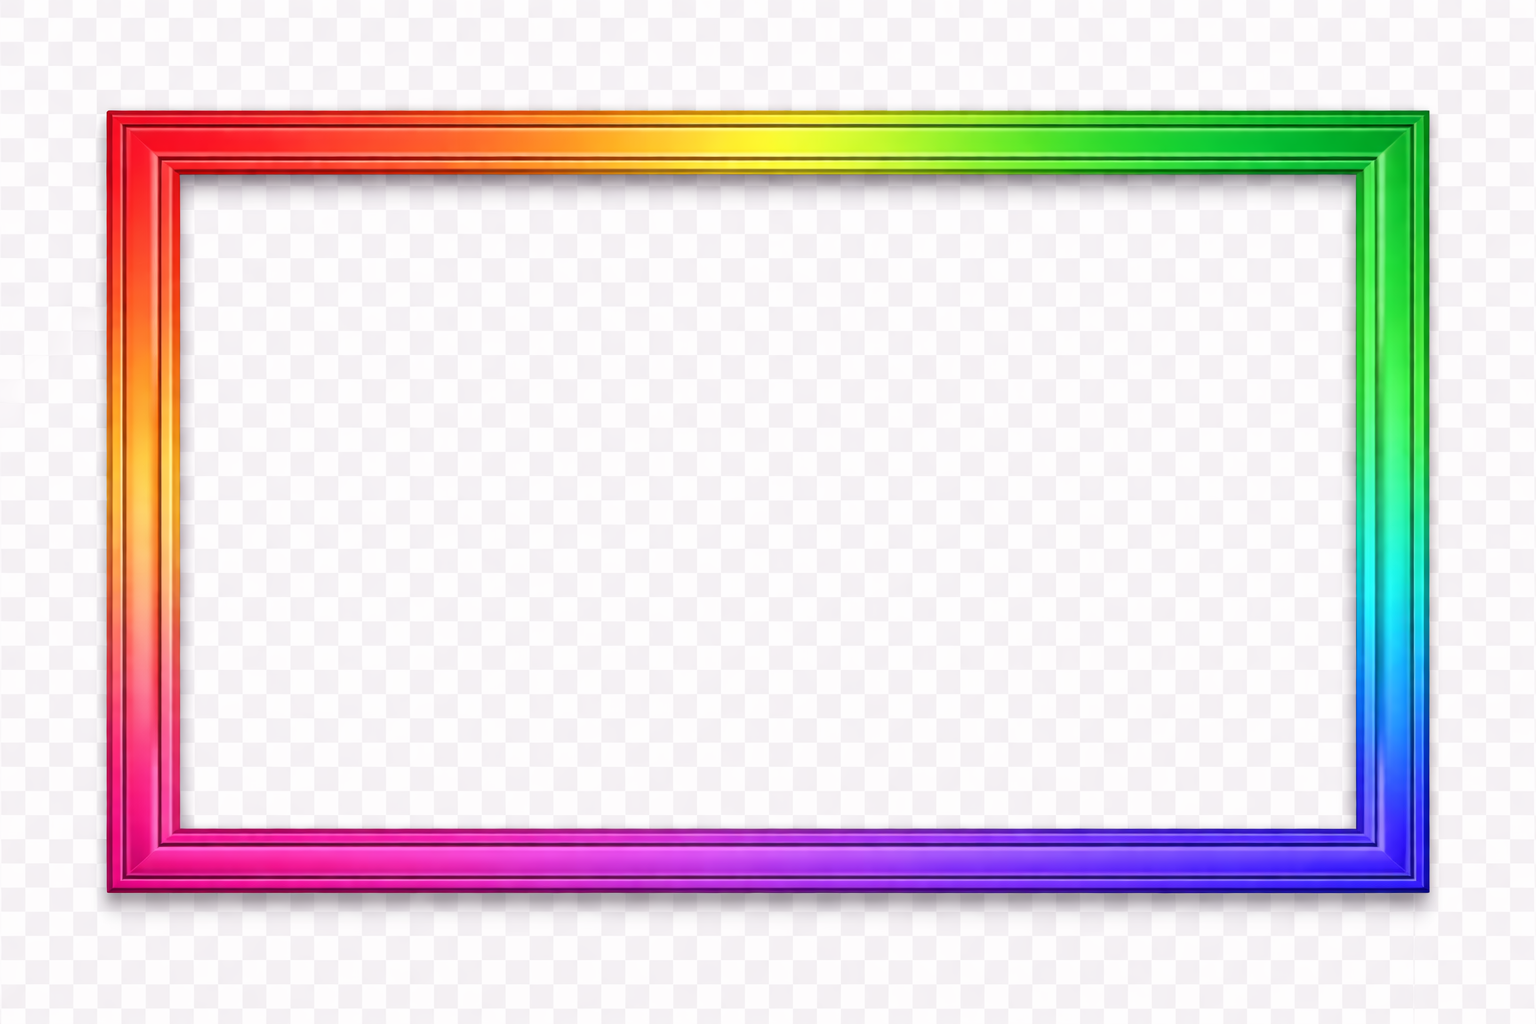
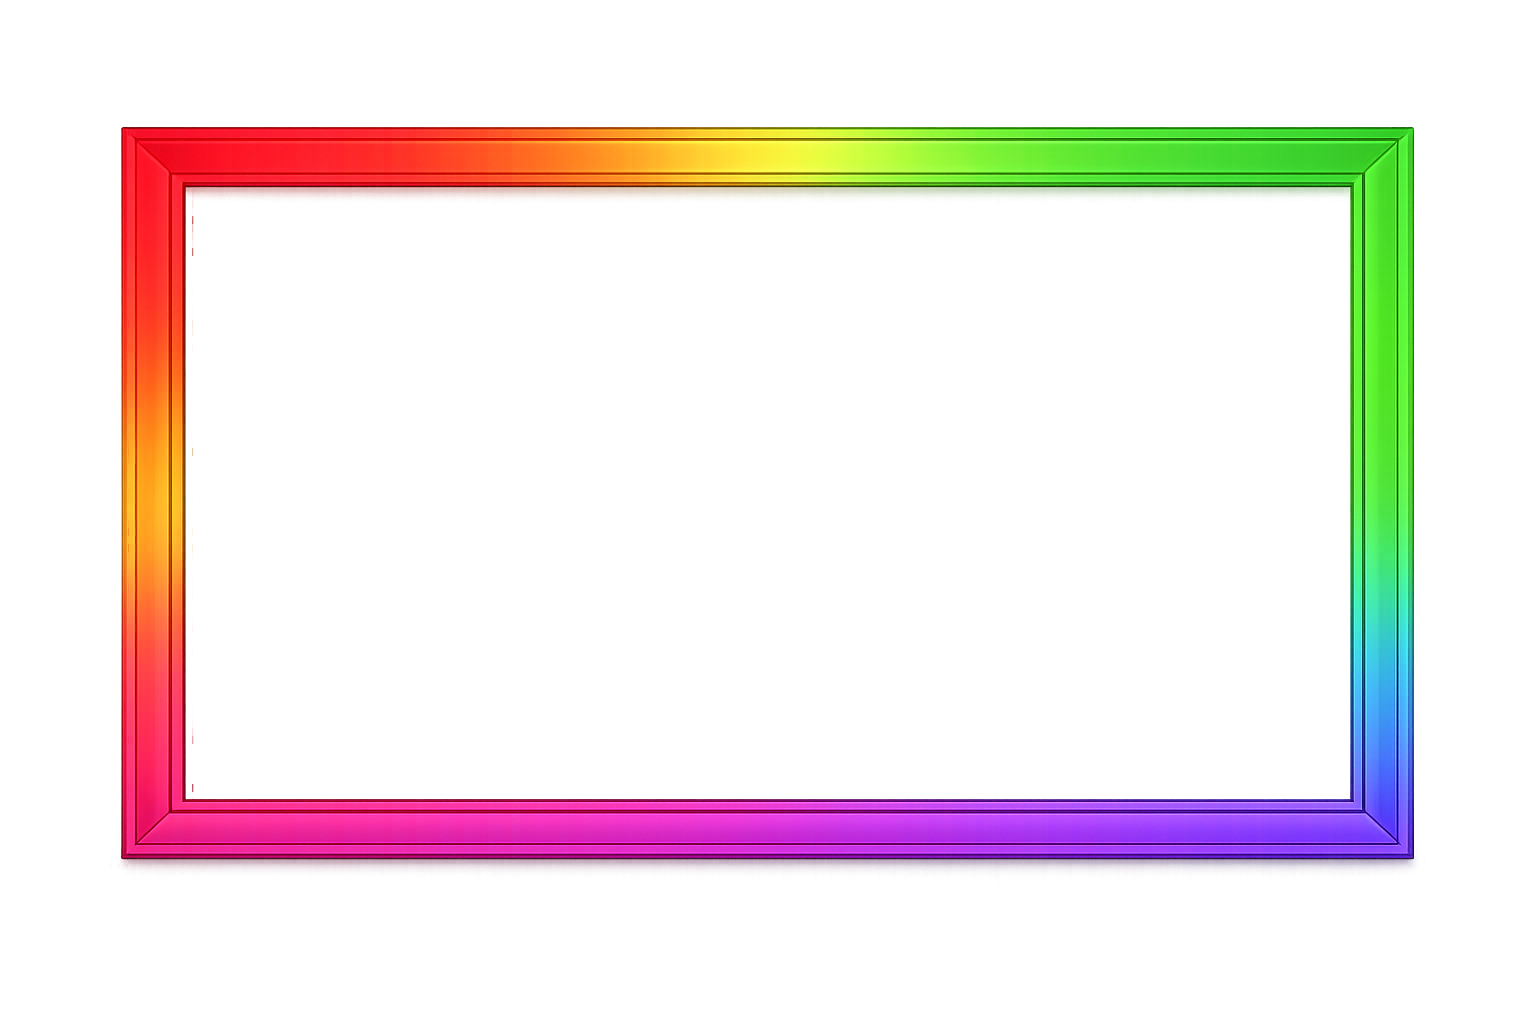
Fixes for a few lines and speakers

Changed region(s): [[0.0625, 0.0938, 0.9375, 0.9062]]

diff --git a/test_area/rust/server_test/src/main.rs b/test_area/rust/server_test/src/main.rs
@@ -150,7 +150,7 @@ async fn main() {
     // broadcast channel for pushing LineMessage to all connected clients.
     let (tx, _rx) = broadcast::channel::<LineMessage>(16);
     let mut lines = Vec::new();
-    for i in 0..=15 {
+    for i in 12..=15 {
         let file = if i == 0 {
             format!("src/00_prologue.json")
         } else {
@@ -297,7 +297,7 @@ async fn main() {
         .nest_service("/src", get_service(ServeDir::new("src")))
         .layer(Extension(tx));
 
-    let addr = SocketAddr::from(([0, 0, 0, 0], 3000));
+    let addr = SocketAddr::from(([0, 0, 0, 0], 3159));
     let listener = tokio::net::TcpListener::bind(addr).await.unwrap();
     println!("Listening on http://{}", addr);
     axum::serve(listener, app).await.unwrap();
